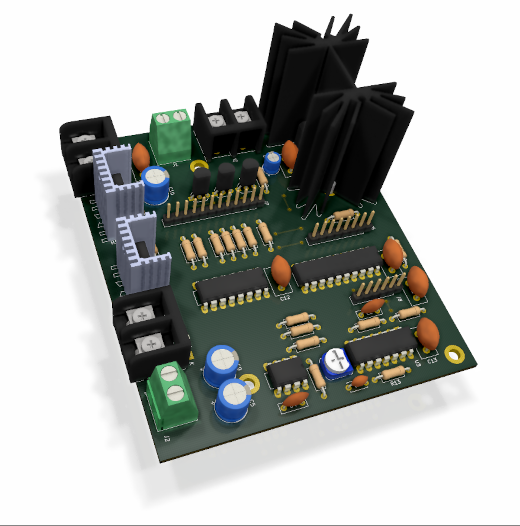
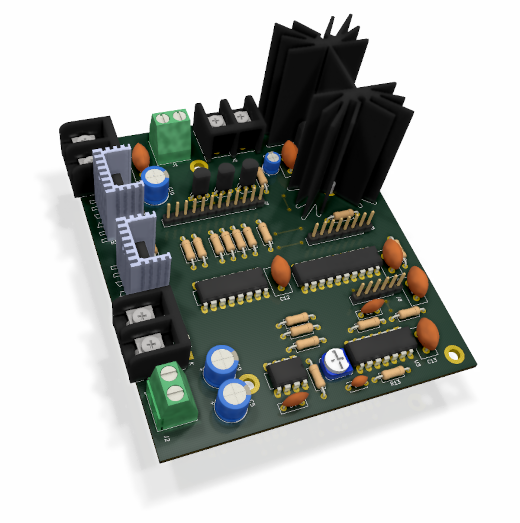
Add readme file and crop 3D image.

diff --git a/readme.md b/readme.md
@@ -1,0 +1,9 @@
+## ATTiny2313 base electronic controller for UV exposure units.
+
+![3D view of the controller PCB](https://raw.githubusercontent.com/dilshan/uv-exposure-controller/main/resources/controller-3d-render-small.png)
+
+*ATtiny2313A* MCU base exposure controller unit with two high-power relay driver stages, an audible notification unit, a safety lock, and a programmable timer. The programmable timer unit supports up to 999 seconds (approximately 16 minutes) of exposure.
+
+This unit tests with four *NEC* 20W - 60cm (T8) black fluorescent tubes with four separate chokes and starter units.
+
+The unit is specifically designed for developing screens (for screen-printing) and for paint curing.
